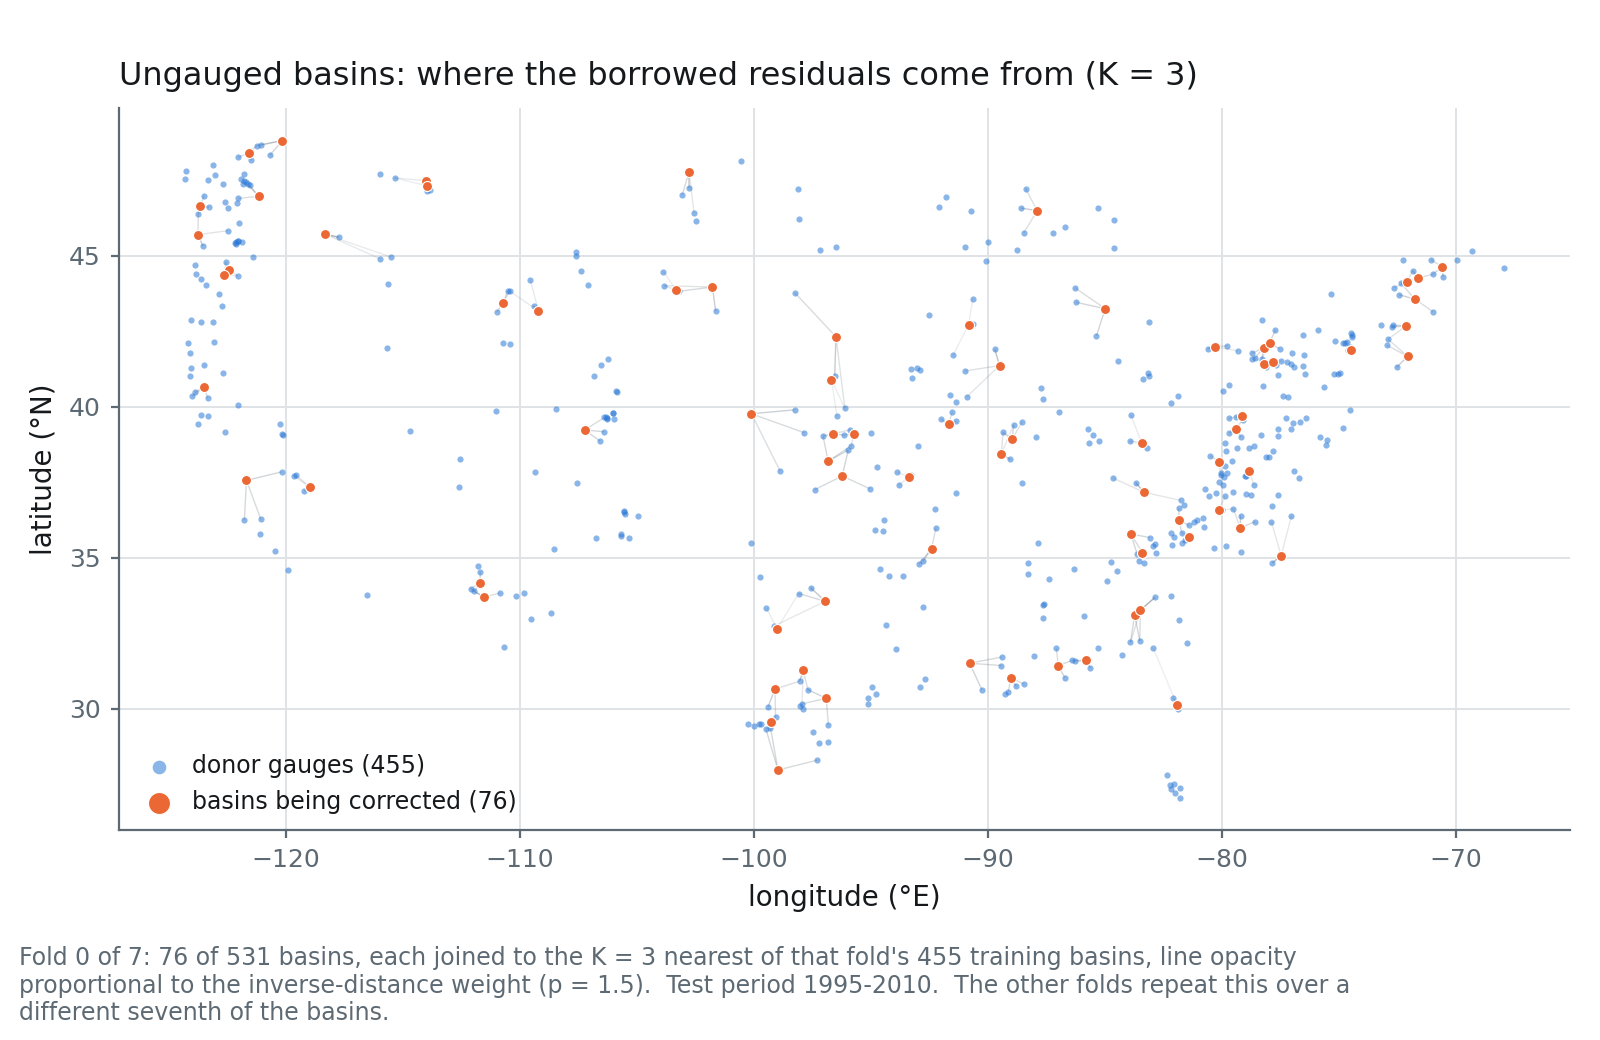
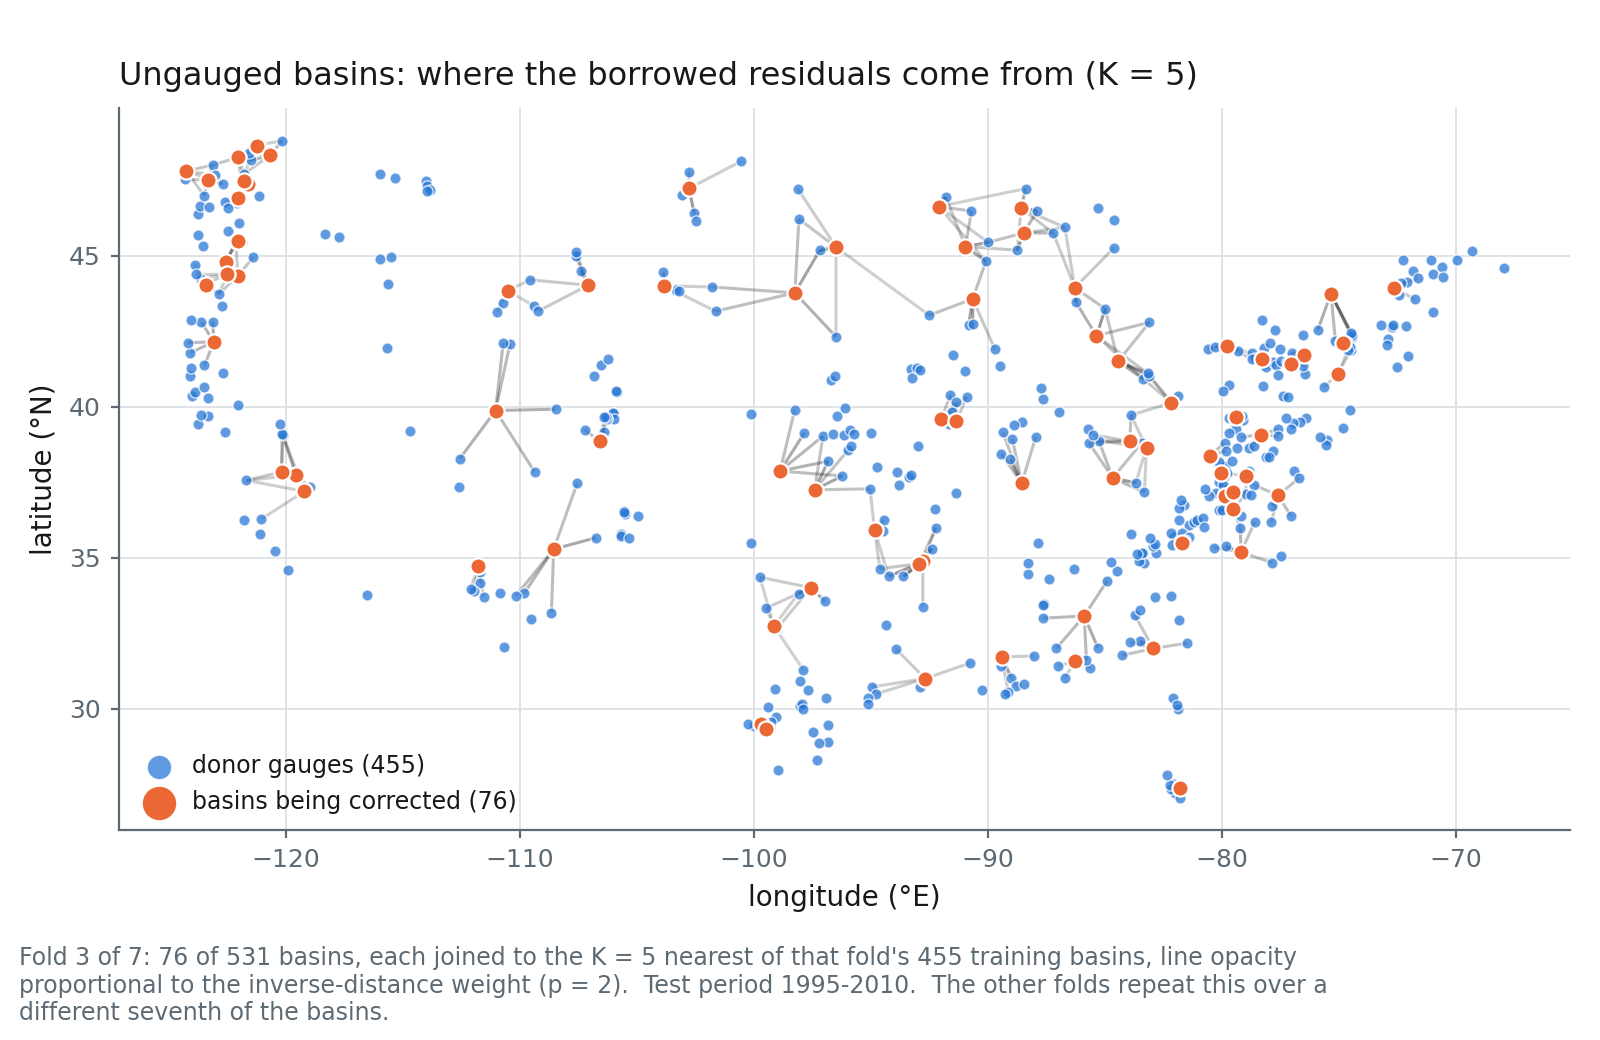
Restyle the four figures per feedback
- CDF: two stacked panels (NSE top, KGE bottom) instead of one, so both
  headline scores are on the page without repeating the boxplot's KGE.
- Boxplot: KGE and RMSE dropped (KGE now lives in the CDF); 2x2 grid of just
  the four bias measures.
- Hyperparameter surface: y-axis floored at 0.6 instead of zoomed to the
  surface's own tight span, panel labels reduced to bare (a)/(b)/(c) in the
  bottom-left corner, y-label shortened to "Median cross-validation KGE".
- Donor map: draws whichever fold's K is closest to 5 (fold 3, was fold 0's
  K=3) for a clearer few-donors-per-basin picture; donor lines switched from
  thin grey to thicker ink-coloured with higher opacity, marker sizes and
  edges increased.

diff --git a/figures/make_cdf.py b/figures/make_cdf.py
@@ -3,15 +3,15 @@
     python figures/make_cdf.py --cell ungauged    # -> figures/ungauged_cdf.png
     python figures/make_cdf.py --cell gauged      # -> figures/gauged_cdf.png
 
-The empirical cumulative distribution of NSE across basins. Each basin contributes one point --
-the score of its seed-mean hydrograph -- so a curve lying to the right is winning at every
-quantile it is right of, not merely on average.
+Two empirical cumulative distributions, NSE on top and KGE below, across basins. Each basin
+contributes one point -- the score of its seed-mean hydrograph -- so a curve lying to the right
+is winning at every quantile it is right of, not merely on average.
 
-NSE here, KGE in the boxplot's first panel, so the two figures cover both and neither repeats
-the other. The settings on the page were still chosen to maximise KGE -- this is deliberately a
-cross-metric view, and the caption says so. The two disagree by more than the axis: the
-correction improves KGE's correlation and bias terms but slightly worsens its variability term,
-which NSE does not charge for, so the NSE gain is about four times the KGE gain.
+The settings on the page were chosen to maximise KGE (`figures/evaluate.py`'s default), so the
+NSE panel is a deliberate cross-metric view and the caption says so. The two panels disagree by
+more than their axes alone: the correction improves KGE's correlation and bias terms but
+slightly worsens its variability term, which NSE does not charge for, so the NSE gain runs
+larger than the KGE gain.
 
 Colour: palette slots 0 and 1, validated in palette.py (normal-vision dE 33.6, protan 24.5,
 deutan 31.6, all past the >= 15 / >= 8 thresholds). Identity never rests on colour alone: both
@@ -32,34 +32,36 @@ from evaluate import fold_settings, read_info, read_metrics  # noqa: E402
 from palette import CELL_BLURB, CELL_TITLE, INK, LABEL, MUTE, SERIES, TITLE  # noqa: E402
 from palette import caption, settings_note, style  # noqa: E402
 
+PANELS = [("nse", "NSE, Nash-Sutcliffe efficiency"), ("kge", "KGE, Kling-Gupta efficiency")]
+
 
 def main(cell):
     df = read_metrics(cell)
     info = read_info(cell)
 
-    fig, ax = plt.subplots(figsize=(6.2, 4.4))
-    for name, color in SERIES.items():
-        v = np.sort(df.loc[df.variant == name, "nse"].dropna().to_numpy())
-        ax.plot(v, np.arange(1, len(v) + 1) / len(v), color=color, lw=2, zorder=3,
-                label=f"{name}   median {np.median(v):.3f}")
-        ax.plot([np.median(v)], [0.5], "o", ms=7, color=color, markeredgecolor="white",
-                markeredgewidth=1.6, zorder=4)
-    ax.axhline(0.5, color=MUTE, lw=0.8, ls=(0, (4, 3)), zorder=1)
+    fig, axes = plt.subplots(2, 1, figsize=(6.2, 7.6), sharex=True)
+    for ax, (col, xlabel) in zip(axes, PANELS):
+        for name, color in SERIES.items():
+            v = np.sort(df.loc[df.variant == name, col].dropna().to_numpy())
+            ax.plot(v, np.arange(1, len(v) + 1) / len(v), color=color, lw=2, zorder=3,
+                    label=f"{name}   median {np.median(v):.3f}")
+            ax.plot([np.median(v)], [0.5], "o", ms=7, color=color, markeredgecolor="white",
+                    markeredgewidth=1.6, zorder=4)
+        ax.axhline(0.5, color=MUTE, lw=0.8, ls=(0, (4, 3)), zorder=1)
+        ax.set_xlim(-0.2, 1.0)
+        ax.set_ylim(0, 1)
+        ax.set_xlabel(xlabel, color=INK, fontsize=LABEL)
+        ax.set_ylabel("fraction of basins at or below", color=INK, fontsize=LABEL)
+        ax.legend(frameon=False, loc="upper left", fontsize=LABEL - 1, labelcolor=INK)
+        style(ax)
 
-    ax.set_xlim(-0.2, 1.0)
-    ax.set_ylim(0, 1)
-    ax.set_xlabel("NSE, Nash-Sutcliffe efficiency", color=INK, fontsize=LABEL)
-    ax.set_ylabel("fraction of basins at or below", color=INK, fontsize=LABEL)
-    ax.set_title(f"{CELL_TITLE[cell]}: skill before and after the correction",
-                 color=INK, fontsize=TITLE, loc="left", pad=8)
-    ax.legend(frameon=False, loc="upper left", fontsize=LABEL - 1, labelcolor=INK)
-    style(ax)
-
+    axes[0].set_title(f"{CELL_TITLE[cell]}: skill before and after the correction",
+                      color=INK, fontsize=TITLE, loc="left", pad=8)
     bottom = caption(fig, f"{info['n_basins']} basins, {CELL_BLURB[cell]}, "
                           f"{info['n_folds']} folds, {info['n_seeds']} seeds, test period "
                           f"{info['test_period']}.  {settings_note(fold_settings(df))}, chosen by "
                           f"cross-validation to maximise KGE, never reading the basin being "
-                          f"corrected; the distribution shown is NSE.", 96)
+                          f"corrected.  Top: NSE.  Bottom: KGE.", 96)
     fig.tight_layout(rect=(0, bottom, 1, 1))
     out = f"{HERE}/{cell}_cdf.png"
     fig.savefig(out, dpi=200, facecolor="white")

diff --git a/figures/make_hyperparam.py b/figures/make_hyperparam.py
@@ -36,9 +36,9 @@ from palette import caption, style  # noqa: E402
 CV_POOL = {"ungauged": "the fold's own training basins",
            "gauged": "every basin outside the group being corrected"}
 
-AXES = [("k", "K, donor gauges consulted", "(a)  gauges consulted"),
-        ("lam", r"$\lambda$, fraction of donor error applied", "(b)  error believed"),
-        ("p", "p, inverse-distance exponent", "(c)  distance weighting")]
+AXES = [("k", "K, donor gauges consulted", "(a)"),
+        ("lam", r"$\lambda$, fraction of donor error applied", "(b)"),
+        ("p", "p, inverse-distance exponent", "(c)")]
 
 
 def main(cell):
@@ -72,23 +72,26 @@ def main(cell):
         ax.set_xticks(range(len(grid)))
         ax.set_xticklabels([f"{v:g}" if i % step == 0 else "" for i, v in enumerate(grid)])
         ax.set_xlabel(xlabel, color=INK, fontsize=LABEL)
-        ax.set_title(title, color=INK, fontsize=PANEL, loc="left", pad=8)
+        # Panel letter in the bottom-left corner, in axis fractions so it sits inside the
+        # plot regardless of the y-limits below.
+        ax.text(0.03, 0.05, title, color=INK, fontsize=PANEL, transform=ax.transAxes,
+               ha="left", va="bottom")
         if ax is axes[0]:  # one legend for the figure: all three panels draw the same two things
             ax.plot([], [], color=CORRECTED, lw=lw, alpha=alpha,
                     label="profile" if single else "per-fold profile")
             ax.plot([], [], "o", ms=7, color=CORRECTED, markeredgecolor="white",
                     markeredgewidth=1.5, label="selected")
             ax.legend(frameon=False, loc="lower right", fontsize=LABEL - 2, labelcolor=INK)
-        # Scaled to the data, not to [0, 1]: the whole surface spans a few hundredths of KGE,
-        # and on a full-height axis the profiles collapse to flat lines with no readable shape.
-        # The caption carries the span so the zoom cannot be mistaken for a large effect, and
-        # panel (b) includes lambda = 0 -- the uncorrected model -- as an in-panel anchor.
+        # Floor at 0.6 rather than the tight span of the surface: the surface itself only
+        # spans a few hundredths of KGE, and zooming all the way to it (as an earlier version
+        # did) makes ordinary sampling noise look like a dramatic shape. 0.6 keeps the profiles
+        # readable while still showing them clearly above the uncorrected floor.
         pad = 0.06 * (df.score.max() - df.score.min())
-        ax.set_ylim(df.score.min() - pad, df.score.max() + pad)
+        ax.set_ylim(0.6, df.score.max() + pad)
         style(ax)
     axes[1].tick_params(labelleft=False)
     axes[2].tick_params(labelleft=False)
-    axes[0].set_ylabel("median KGE over cross-validation groups", color=INK, fontsize=LABEL)
+    axes[0].set_ylabel("Median cross-validation KGE", color=INK, fontsize=LABEL)
 
     fig.suptitle(f"{CELL_TITLE[cell]}: cross-validation for K, $\\lambda$ and p",
                  fontsize=TITLE, color=INK, x=0.012, ha="left", y=0.98)

diff --git a/figures/make_donor_map.py b/figures/make_donor_map.py
@@ -36,7 +36,10 @@ from residual_postprocessing import (BASINS_CSV, basin_ids, distance_matrix,  # 
 def main(cell):
     df = read_metrics(cell)
     info = read_info(cell)
-    fold, k, lam, p = fold_settings(df)[0]
+    # Pick the fold/group whose K is closest to 5: few enough donor lines to read individually,
+    # many enough to look like a real neighbourhood rather than a single nearest-neighbour lookup.
+    settings = fold_settings(df)
+    fold, k, lam, p = min(settings, key=lambda s: (abs(s[1] - 5), s[0]))
 
     labels, dist = fold_labels(), distance_matrix()
     target = np.flatnonzero(labels == fold)
@@ -63,16 +66,19 @@ def main(cell):
     # Shaped to the CONUS aspect the `set_aspect` below enforces, so the axes fill the
     # figure instead of floating in a band of white.
     fig, ax = plt.subplots(figsize=(8.0, 5.2))
-    ax.add_collection(LineCollection(segs, colors=MUTE, linewidths=0.5, zorder=2,
-                                     alpha=0.10 + 0.45 * (w / w.max())))
+    # Thicker and darker than the default MUTE grid ink, so the donor links read clearly
+    # against the basin points rather than disappearing into the background.
+    ax.add_collection(LineCollection(segs, colors=INK, linewidths=1.1, zorder=2,
+                                     alpha=0.20 + 0.55 * (w / w.max())))
     # In the gauged cell every basin is a donor for every other, so the blue points are not
     # "the donor pool" -- they are simply the basins not being corrected in this group.
     shown = np.setdiff1d(donor, target)
-    ax.scatter(lon[shown], lat[shown], s=5, color=RAW, alpha=0.55, lw=0, zorder=3,
-               label=(f"donor gauges ({len(shown)})" if cell == "ungauged"
-                      else f"other basins ({len(shown)})"))
-    ax.scatter(lon[target], lat[target], s=13, color=CORRECTED, lw=0.4, zorder=4,
-               edgecolor="white", label=f"basins being corrected ({len(target)})")
+    ax.scatter(lon[shown], lat[shown], s=16, color=RAW, alpha=0.75, lw=0.5,
+              edgecolor="white", zorder=3,
+              label=(f"donor gauges ({len(shown)})" if cell == "ungauged"
+                     else f"other basins ({len(shown)})"))
+    ax.scatter(lon[target], lat[target], s=34, color=CORRECTED, lw=0.8, zorder=4,
+              edgecolor="white", label=f"basins being corrected ({len(target)})")
 
     ax.set_aspect(1 / np.cos(np.radians(lat.mean())))
     ax.set_xlabel("longitude (°E)", color=INK, fontsize=LABEL)

diff --git a/figures/make_boxplot.py b/figures/make_boxplot.py
@@ -1,11 +1,11 @@
-"""Where the correction acts: six error measures, before and after.
+"""Where the correction acts: four bias measures, before and after.
 
     python figures/make_boxplot.py --cell ungauged
     python figures/make_boxplot.py --cell gauged
 
-A single skill score hides where a correction does its work. These six say it: overall skill
-(KGE), typical error size (RMSE), water balance (percent bias), and then bias split by how high
-the river actually was that day -- top 10%, middle 30-90%, bottom 30%.
+Overall skill lives in the CDF figure (NSE and KGE); this one is about water balance -- overall
+percent bias, then bias split by how high the river actually was that day: top 10%,
+middle 30-90%, bottom 30%.
 
 The flow bands are cut on the OBSERVED flow (Yilmaz et al. 2008), so "high-flow bias" is the
 model's error on the days the river really was high, not on the days it predicted high. For the
@@ -34,8 +34,6 @@ from palette import CELL_BLURB, CELL_TITLE, INK, LABEL, MUTE, PANEL, SERIES, TIT
 from palette import caption, settings_note, style  # noqa: E402
 
 PANELS = [
-    ("kge", "KGE, Kling-Gupta efficiency", False),
-    ("rmse", "RMSE (mm day$^{-1}$)", False),
     ("pbias", "overall bias (%)", True),
     ("bias_high", "bias, top 10% of flows (%)", True),
     ("bias_mid", "bias, middle 30-90% of flows (%)", True),
@@ -48,7 +46,7 @@ def main(cell):
     info = read_info(cell)
     series = {name: df[df.variant == name] for name in SERIES}
 
-    fig, axes = plt.subplots(2, 3, figsize=(11.5, 6.4))
+    fig, axes = plt.subplots(2, 2, figsize=(8.2, 6.8))
     rng = np.random.default_rng(0)  # fixed, so the jitter is reproducible
 
     for ax, (col, title, centred) in zip(axes.ravel(), PANELS):
@@ -91,7 +89,7 @@ def main(cell):
                             for n in [int((v < lo - pad).sum() + (v > hi + pad).sum())]],
                            fontsize=LABEL - 1, color=INK)
 
-    fig.suptitle(f"{CELL_TITLE[cell]}: what the correction changes, measure by measure",
+    fig.suptitle(f"{CELL_TITLE[cell]}: bias before and after the correction",
                  fontsize=TITLE, color=INK, x=0.012, ha="left", y=0.995)
     bottom = caption(fig, f"{info['n_basins']} basins, {CELL_BLURB[cell]}, {info['n_folds']} "
                           f"folds, {info['n_seeds']} seeds, test period {info['test_period']}.  "
